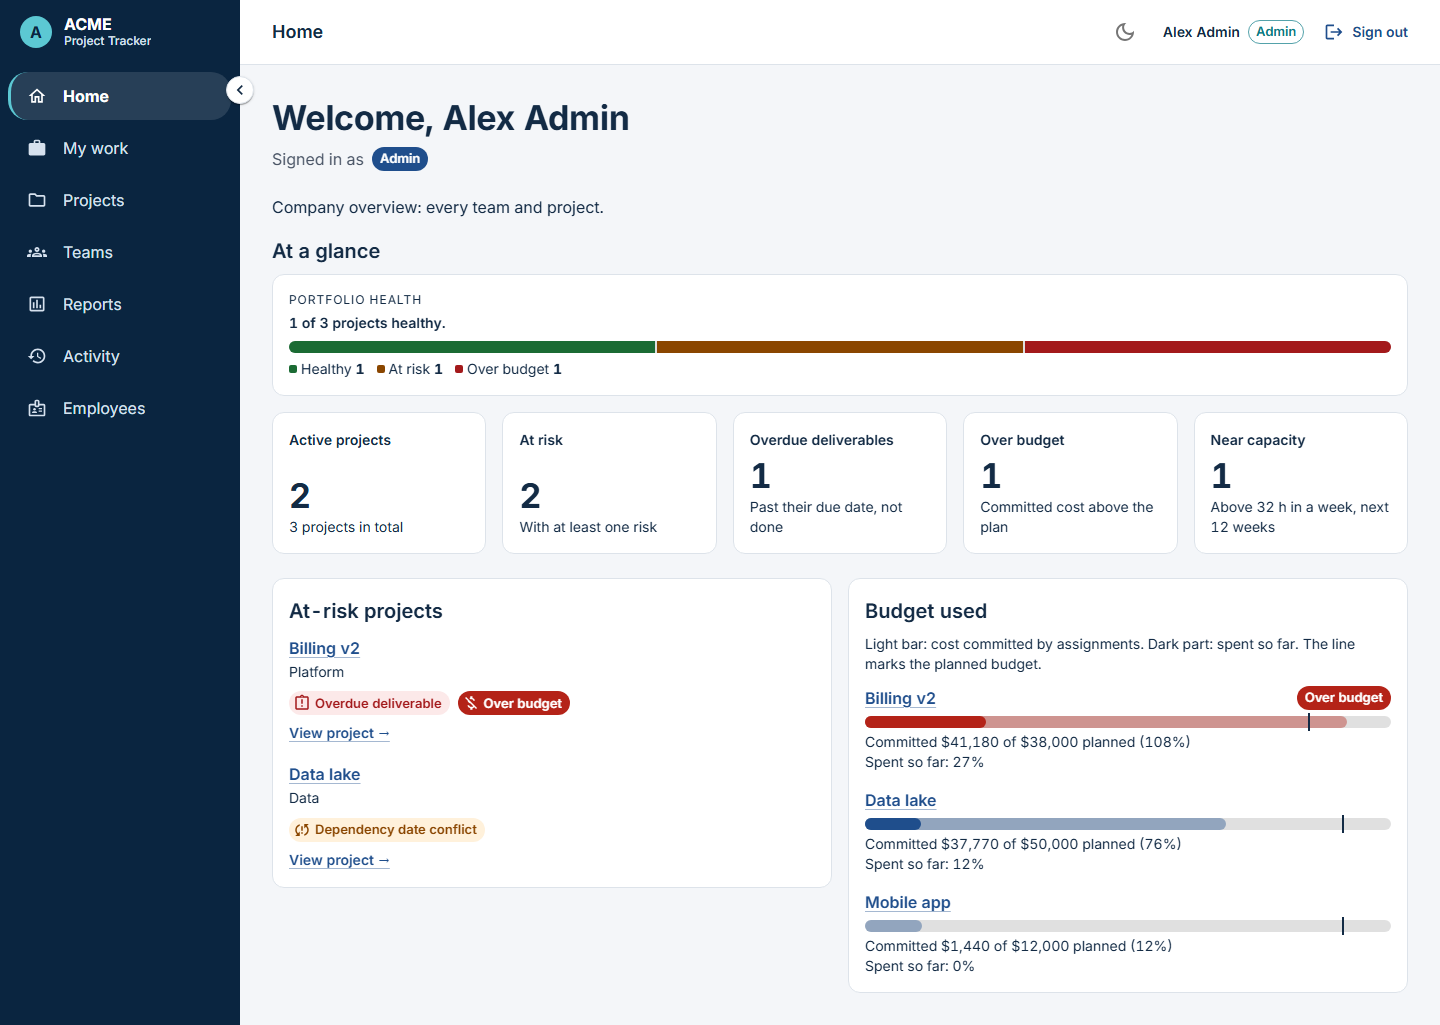
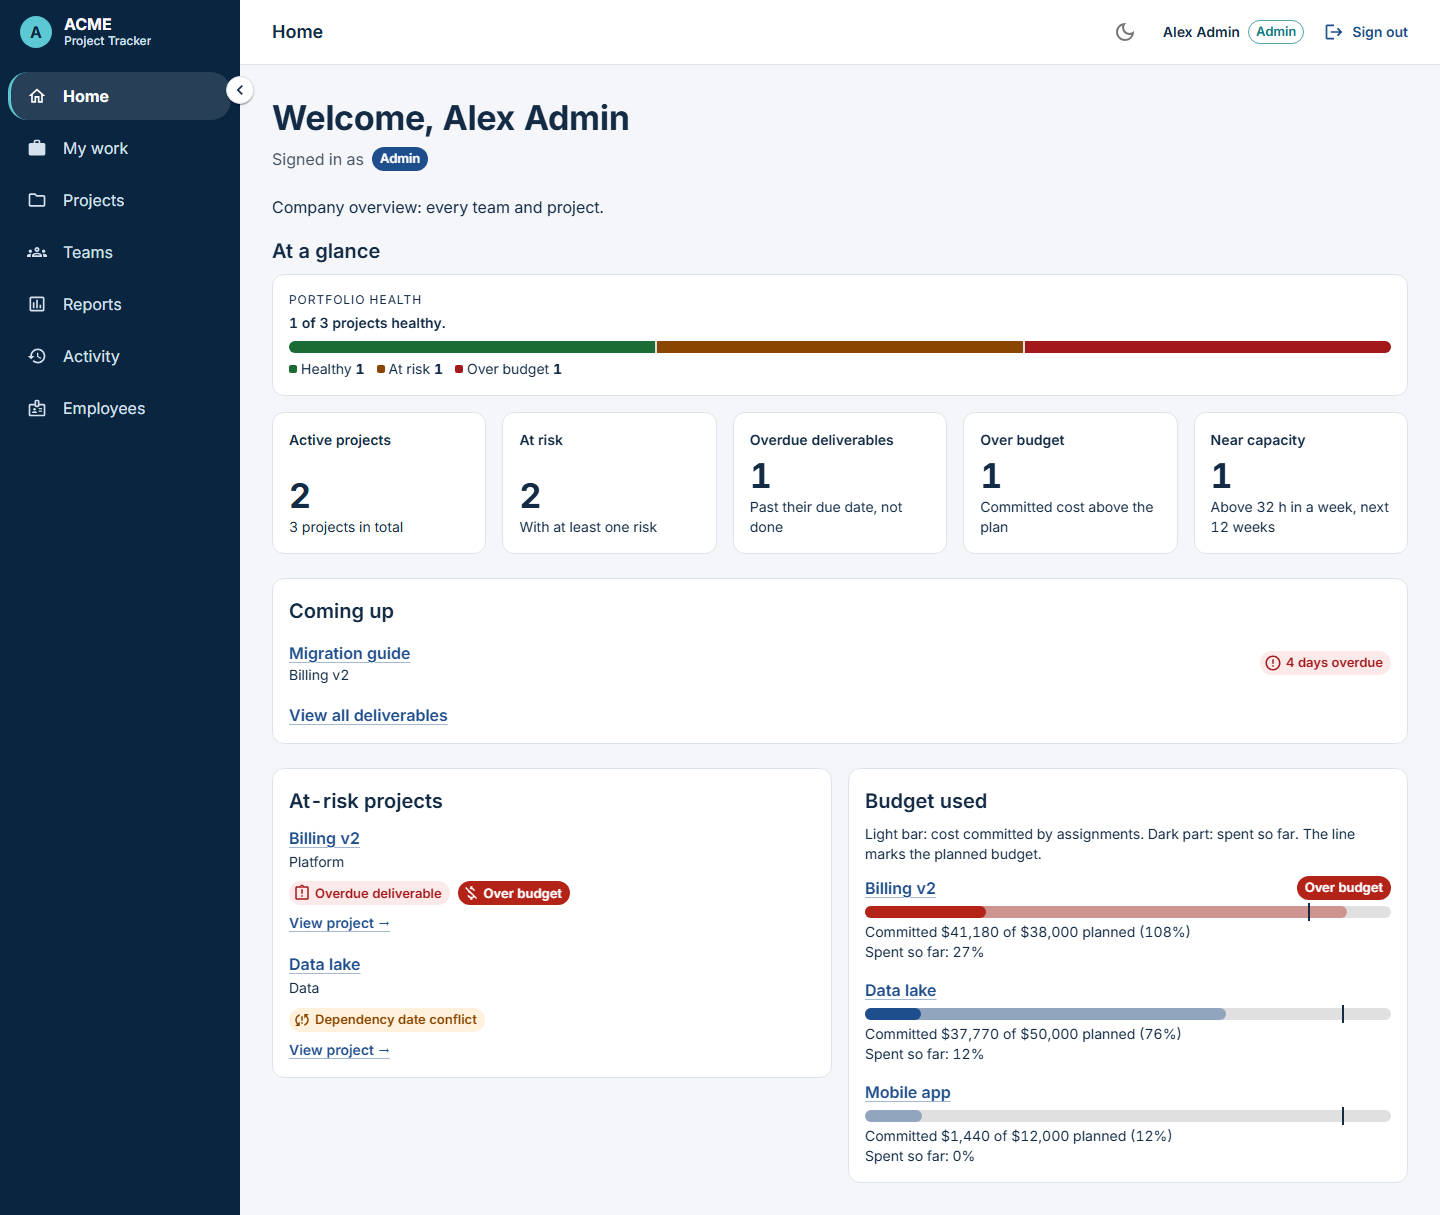
Docs: final screenshots, real test numbers, demo steps for the final polish

diff --git a/README.md b/README.md
@@ -28,22 +28,26 @@ Plainly, before you look further:
 
 ## Screenshots
 
-Taken with the seeded demo data on October 14, 2026 (`docs/screenshots/final/`).
+Taken with the seeded demo data on October 15, 2026 (`docs/screenshots/final/`).
 
 | | |
 |---|---|
-| ![Admin Home: portfolio health bar, five clickable cards, at-risk projects, budget bars](docs/screenshots/final/02-admin-home.png) | ![A project page: the health strip with budget, schedule and people tiles](docs/screenshots/final/06-project-health-strip.png) |
-| Admin Home. Portfolio health counts each project once; every card is a link to the detail. | Project page. The health strip: budget (committed against planned, spent so far), schedule by status, and who is on it this week. It updates as soon as an assignment or deliverable changes. |
+| ![Admin Home: portfolio health bar, five clickable cards, Coming up, at-risk projects, budget bars](docs/screenshots/final/24-admin-home-coming-up.png) | ![A project page: the health strip with budget, schedule and people tiles](docs/screenshots/final/06-project-health-strip.png) |
+| Admin Home. Portfolio health counts each project once; every card is a link to the detail (cards lift a little on hover). "Coming up" lists what is overdue or due in the next 14 days. | Project page. The health strip: budget (committed against planned, spent so far), schedule by status, and who is on it this week. It updates as soon as an assignment or deliverable changes. |
 | ![Activity feed for the admin](docs/screenshots/final/20-activity-admin.png) | ![Activity feed for a manager, limited to their teams' projects](docs/screenshots/final/21-activity-manager.png) |
 | Activity (admin): who did what and when, in plain sentences, with filters and "Load more". Repeats fold into one row (×6). | Activity (manager): only their teams' projects, deliverables and assignments. No people, sign-in or salary rows. |
 | ![Sign-in page with the navy brand panel and mini-timeline](docs/screenshots/final/01-login.png) | ![Employees with salaries masked and leads shown as "Leads Platform"](docs/screenshots/final/13-employees-masked-salary.png) |
 | Sign-in: the brand panel with a small decorative timeline ([dark](docs/screenshots/final/18-login-dark.png), [phone](docs/screenshots/final/19-login-phone.png)). | Employees (admin): salaries masked until asked for; a team lead shows "Leads Platform", not "No team". |
 | ![Deliverables tab with status stripes and due chips](docs/screenshots/final/07-deliverables-tab.png) | ![People tab with avatars and hours against the 40 h limit](docs/screenshots/final/08-people-tab.png) |
 | Deliverables: a status stripe per row and "Due in 28 days" / "3 days overdue" chips. | People: hours per week against the 40 h limit; per-person costs stay masked until the eye is clicked. |
-| ![Projects as cards](docs/screenshots/final/05-projects-cards.png) | ![Employee Home: one-line summary with a sparkline, and four cards](docs/screenshots/final/04-employee-home.png) |
-| Projects as cards (the table is the default; the choice is remembered). | Employee Home: the coming weeks in one line and a sparkline, then cards that lead to My work and the projects. |
+| ![Projects as cards](docs/screenshots/final/05-projects-cards.png) | ![Employee Home for Bo: greeting, four tiles with a ring gauge, project cards, Coming up, people, 12-week strip](docs/screenshots/final/22-employee-home-bo.png) |
+| Projects as cards (the table is the default; the choice is remembered). | Employee Home: a greeting, four tiles (hours this week as a ring, projects, next deadline, overdue), project cards, Coming up, who you work with, and the next 12 weeks ([phone](docs/screenshots/final/31-phone-employee-home-bo.png), [dark](docs/screenshots/final/28-dark-employee-home-bo.png), [Hal with no work](docs/screenshots/final/23-employee-home-hal.png)). |
+| ![Add employee: email domain added for you, yearly salary with $, generated temporary password](docs/screenshots/final/25-add-employee-dialog.png) | ![A project with every deliverable done: Close project next to Edit, a breadcrumb and a toast](docs/screenshots/final/26-close-project-breadcrumb-toast.png) |
+| Add employee: type the part before the @, a yearly salary with "$" and separators, and a generated temporary password shown once with Copy (dotted out in this picture). | When every deliverable is done, "Close project" appears (closing sets Completed and can be undone with "Reopen project"). Breadcrumb "Projects / Mobile app"; success messages are short toasts. |
+| ![Employees with Show archived on: an archived person greyed out with Unarchive](docs/screenshots/final/27-employees-show-archived.png) | ![Dark mode: admin Home](docs/screenshots/final/29-dark-admin-home.png) |
+| "Show archived" lists archived people greyed out with "Unarchive" (admin; projects have the same for admin and the team's manager). | Dark mode ([Employees](docs/screenshots/final/30-dark-employees.png), [project](docs/screenshots/final/15-dark-project.png)). |
 
-More: [manager Home](docs/screenshots/final/03-manager-home.png), [Teams](docs/screenshots/final/09-teams.png),
+More: [admin Home, full page](docs/screenshots/final/02-admin-home.png), [Ana's Home](docs/screenshots/final/04-employee-home.png), [manager Home](docs/screenshots/final/03-manager-home.png), [Teams](docs/screenshots/final/09-teams.png),
 [Reports, project status](docs/screenshots/final/10-reports-status.png), [hours heat-map](docs/screenshots/final/11-reports-heatmap.png),
 [dependencies timeline](docs/screenshots/final/12-dependencies-timeline.png), [phone](docs/screenshots/final/14-phone-project.png),
 [dark mode](docs/screenshots/final/15-dark-project.png), [empty state for someone with no work](docs/screenshots/final/16-empty-state-hal.png),
@@ -209,14 +213,14 @@ Known blockers to check once a cluster is available:
 
 ## Tests
 
-Last full run on this laptop, October 14, 2026 (all from that run):
+Last full run on this laptop, October 15, 2026 (all from that run):
 
 | Check | Result |
 |---|---|
-| Backend, `pytest` | 749 passed, 99.03% coverage |
-| Frontend, `npm run coverage` (Vitest) | 468 passed in 38 files; 95.95% statements, 90.73% branches, 96.13% functions, 97.02% lines |
+| Backend, `pytest` | 762 passed, 99.01% coverage |
+| Frontend, `npm run coverage` (Vitest) | 491 passed in 43 files; 96.09% statements, 90.12% branches, 96.22% functions, 97.17% lines |
 | `npm run lint` | No problems |
-| `npm run build` | Built; main bundle 423.94 kB (137.88 kB gzipped) |
+| `npm run build` | Built; main bundle 438.84 kB (142.53 kB gzipped) |
 | End-to-end, Playwright (`e2e/01-pages`, `e2e/02-flows`) | 11 passed |
 | Role smoke, `scripts/smoke_roles.py` | 11 passed, 0 failed |
 
@@ -239,9 +243,11 @@ Both coverage runs fail the build under 80%.
 
 ## Known gaps
 
-As of October 14, 2026:
+As of October 15, 2026:
 
 - The Activity screen lists the audit log as plain sentences; it does not show before/after values.
+- No change-password screen: a new person keeps the temporary password the admin generated until one exists.
+- Unarchive brings back people and projects only (not teams), and never their old assignments.
 - The salary reveal is a display guard only: the API still sends salaries and hourly rates to an admin.
 - Lists are not paginated. The app is sized for demo data.
 - The cloud deploy is unverified (see above). `package-lock.json` is git-ignored, so installs are not pinned.

diff --git a/docs/demo-script.md b/docs/demo-script.md
@@ -10,22 +10,31 @@ Sign in as `admin@acme-demo.test`.
 
 1. **Home.** Point at the **Portfolio health** bar: "1 of 3 projects healthy", one at risk, one over budget,
    each project counted once. Say: "Five cards under it, each one a link." Point at **At risk 2** and
-   **Over budget 1**.
+   **Over budget 1**. Under them, **Coming up** lists what is overdue or due in the next 14 days
+   (Migration guide, 4 days overdue), with **View all deliverables**.
 2. Click the **At risk** card. Reports opens on the **At risk** tab: Billing v2 (overdue deliverable,
    over budget) and Data lake (a dependency starts before its date).
-3. Click **Billing v2**. The **health strip** under the title has three tiles:
+3. Click **Billing v2**. Point at the breadcrumb **Projects / Billing v2** above the title (on a phone it
+   becomes "← Projects"). The **health strip** under the title has three tiles:
    - **Budget**: **Over budget**, "Committed $41,180 of $38,000 planned (108%)", "Spent so far: 27%".
      Say: "The light bar is what the assignments commit, the dark part is what is spent so far, the
      line is the plan."
    - **Schedule**: "1 of 5 done, 1 overdue, 2 blocked", with a bar and every count in words.
    - **People**: four avatars and "4 people, 70 h this week".
    Click the **People** tab and change Ana's hours from 30 to 20 in place: the Budget tile says
-   "Updating..." and its numbers drop at once, no reload. Put it back to 30. (Employees see Schedule
+   "Updating..." and its numbers drop at once, no reload, and a short toast says "Assignment updated:
+   Ana Silva" bottom left. Put it back to 30. (Employees see Schedule
    and People only, never a budget tile.)
 4. Click the **Dependencies** tab: the timeline, longest chain outlined, the red line is today.
 5. Click **Employees** in the sidebar. Salaries show `$ ••••••`. Click the eye **Show salary for Ana
    Silva**: `$124,800.00`. Say: "Masked by default against shoulder-surfing; it hides again after 30
    seconds or when I leave the page. The server still sends it to an admin only."
+   Click **Add employee**: type only "nia" in Email (the "@acme-demo.test" is added for you), a yearly
+   salary shows "$" and "70,000", and **Generate temporary password** makes one to share once, with
+   **Copy**. Click **Cancel** (no need to create her).
+   **Closing a project:** open **Projects → Mobile app**, set **App design** to **Done**: **Close
+   project** appears next to Edit. Click it, confirm: the status becomes Completed and a toast says
+   "Project closed". Click **Reopen project** before moving on (Marta assigns someone to it below).
 6. Click **Reports**, then the **Resources** tab: the heat-map. Ana's 36 h weeks are amber ("near
    capacity").
 7. **Activity (30 seconds).** Click **Activity** in the sidebar. Read a few rows near the top: "Alex Admin
@@ -56,10 +65,12 @@ Sign in as `marta@acme-demo.test`.
    billing API -> API spec". Click **Cancel**.
 4. **Archive, never delete.** Click **Projects**, then **Archive** on the **Mobile app** row. The dialog
    says "Its deliverables and assignments are archived too. Nothing is deleted." Click **Archive**: the
-   project leaves the list. (Signed in as Alex, **Show archived** brings it back with an "Archived" chip.)
+   project leaves the list. Turn on **Show archived**: it is back, greyed out with an "Archived" chip and
+   an **Unarchive** button (her team, so she may). Click **Unarchive**: toast "Project unarchived: Mobile
+   app". Alex has the same on **Employees** for people.
 5. **Activity, scoped.** Click **Activity**. Marta sees only her team's projects: the chips are just
-   **All, Projects, Deliverables, Assignments**, and the newest row is her own "Marta Lopez archived
-   project 'Mobile app'". No sign-ins, no people, no salaries, and nothing about Ken's Data lake.
+   **All, Projects, Deliverables, Assignments**, and the newest rows are her own "Marta Lopez unarchived
+   project 'Mobile app'" and "...archived project 'Mobile app'". No sign-ins, no people, no salaries, and nothing about Ken's Data lake.
 
 Sign out.
 
@@ -71,9 +82,9 @@ Sign in as `hal@acme-demo.test`.
    button.
 2. **Projects:** "No projects to show yet." **Teams:** "You aren't on a team yet." No errors anywhere.
 
-Optional: sign in as `ana@acme-demo.test` for the employee Home with data: "30 h per week through the
-week of Oct 19 ’26, then 36 h.", **This week 30 of 40 h**, the next deadline, an overdue deliverable and
-her two projects.
+Optional: sign in as `bo@acme-demo.test` for the employee Home with data: "Good morning. Here is your
+week.", four tiles (**This week** as a ring with "20 of 40 h", **Projects 1**, the next deadline, **Overdue
+1**), the Billing v2 card, **Coming up**, **Who you work with**, and the next 12 weeks against 40 h.
 
 ## 4. Phone view (about 30 seconds)
 
@@ -85,8 +96,8 @@ the hours chart with its legend ("32 h = near capacity", "40 h = weekly limit").
 
 - **No cloud demo.** The AWS deploy stopped at database creation because the account hit its RDS quota;
   everything you saw runs locally.
-- **No audit log screen.** Every change is written to the audit log in the database, but there is no page
-  to read it yet.
+- **No change-password screen.** A new person signs in with the temporary password the admin generated
+  and shared; there is no page yet to change it.
 - **The salary mask is a display guard.** The API still sends salaries and rates to an admin; the mask
   only stops someone reading them off the screen.
 - Lists are not paginated (sized for demo data), and `package-lock.json` is git-ignored, so installs are
